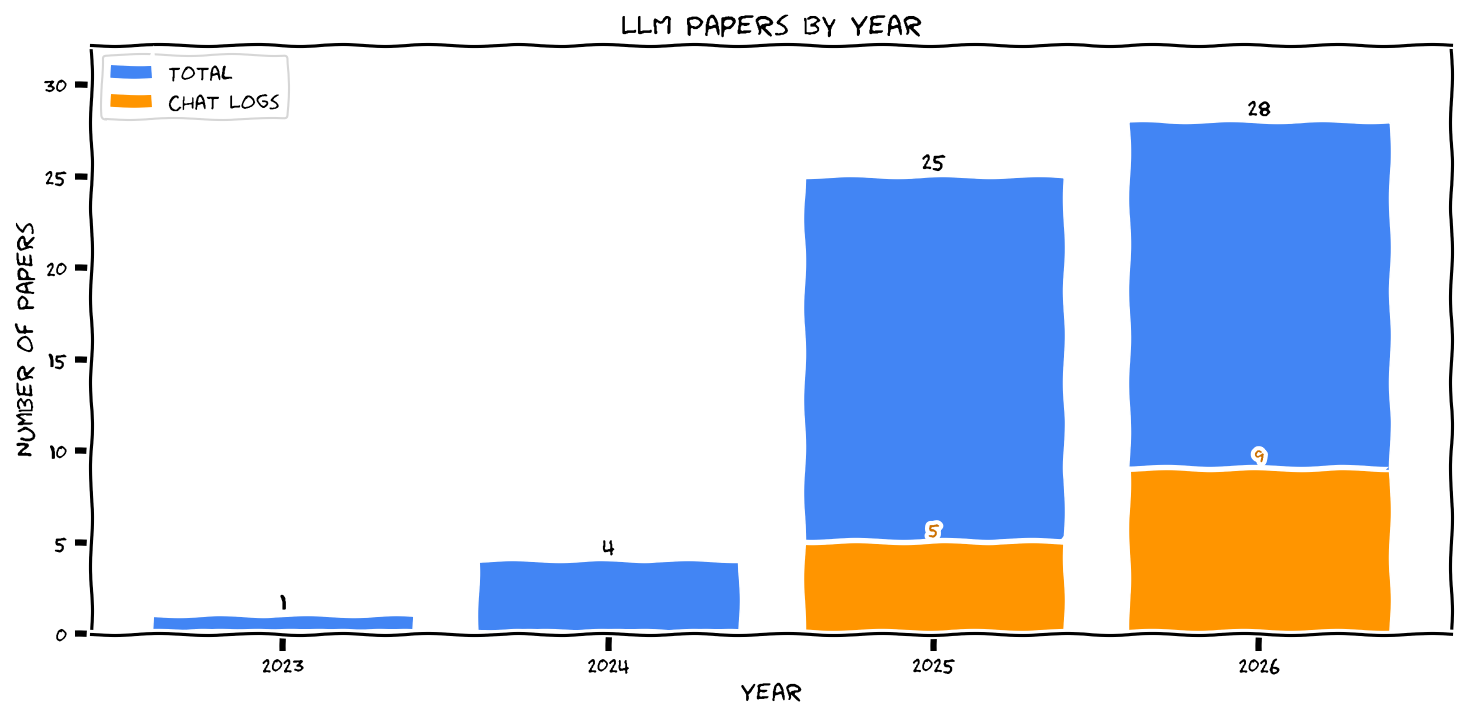
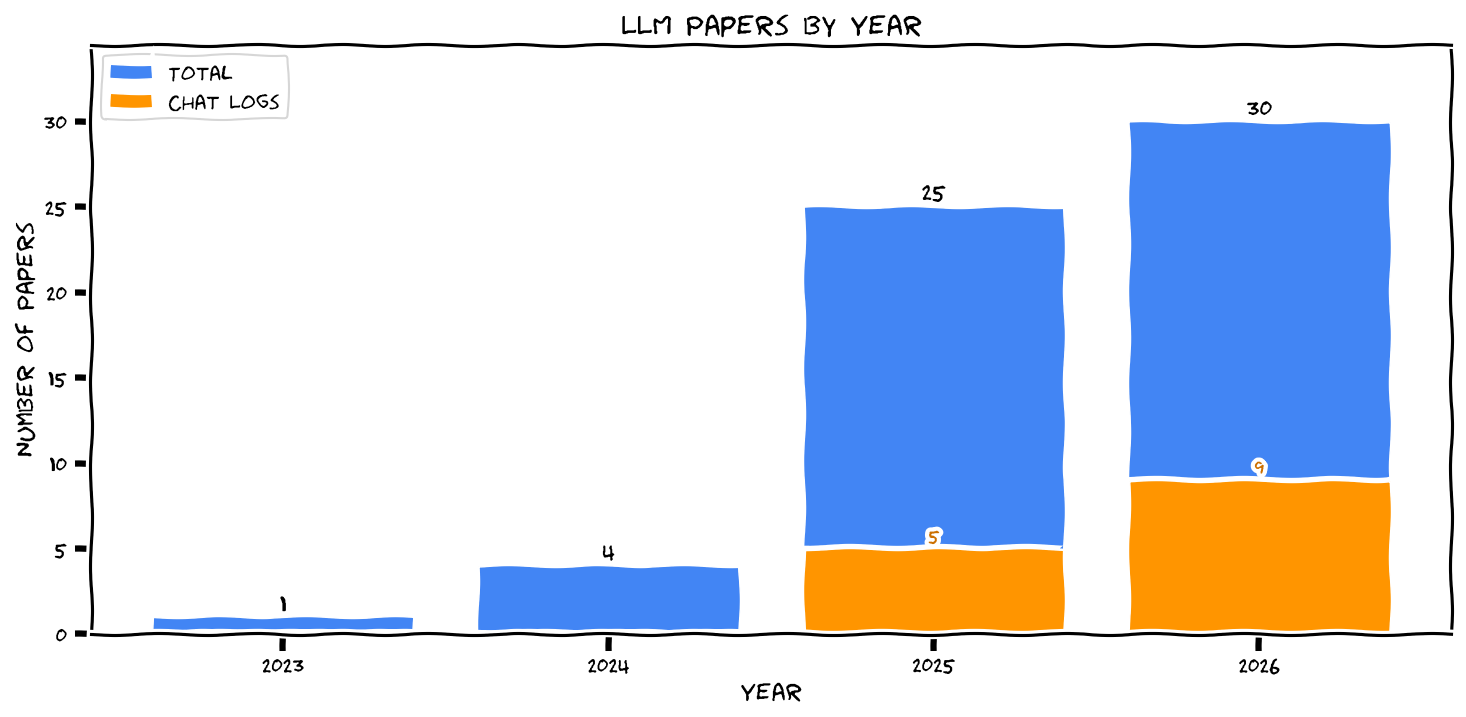
two combinatorics papers (#106)
* Added 2 combinatorics papers

* chore: auto-sort table and generate data

* chore: update papers by year charts

---------

diff --git a/README.md b/README.md
@@ -3,7 +3,7 @@
 [![Awesome](https://awesome.re/badge.svg)](https://awesome.re)
 
 
-A curated list of 145 awesome papers exploring the use of artificial intelligence / machine learning / deep learning for mathematical discoveries.
+A curated list of 147 awesome papers exploring the use of artificial intelligence / machine learning / deep learning for mathematical discoveries.
 
 See [`CONTRIBUTING.md`](https://github.com/seewoo5/awesome-ai-for-math/blob/main/CONTRIBUTING.md) for contribution.
 
@@ -47,6 +47,7 @@ See [`CONTRIBUTING.md`](https://github.com/seewoo5/awesome-ai-for-math/blob/main
 | **[Deep Learning for Symbolic Mathematics](https://openreview.net/forum?id=S1eZYeHFDS)** | Differential Equations, Symbolic Computation, Transformer | ICLR 2020 | [Code](https://github.com/facebookresearch/SymbolicMathematics) |
 | **[Deep Reinforcement Learning for Fano Hypersurfaces](https://arxiv.org/abs/2603.15437)** | Algebraic Geometry, RL | arXiv 2026 | [Code](https://github.com/marctruter/deep_fano_hypersurface) |
 | **[Discovery of Unstable Singularities](https://arxiv.org/abs/2509.14185)** | Differential Equations, PINN | arXiv 2025 |  |
+| **[Doubly Saturated Ramsey Graphs: A Case Study in Computer-Assisted Mathematical Discovery](https://arxiv.org/abs/2604.21187)** | Combinatorics, LLM, ATP | arXiv 2026 | |
 | **[E6-local systems from cubic threefolds](https://arxiv.org/abs/2604.20970)** | Algebraic Geometry, LLM | arXiv 2026 |  |
 | **[Early science acceleration experiments with GPT-5](https://arxiv.org/abs/2511.16072)** | Combinatorics, Optimization Theory, LLM | arXiv 2025 | [Chat Logs](https://arxiv.org/abs/2511.16072) |
 | **[Eigenweights for arithmetic Hirzebruch Proportionality](https://arxiv.org/abs/2601.23245)** | Number Theory, Representation Theory, LLM | arXiv 2026 | [Chat Logs](https://github.com/google-deepmind/superhuman/tree/main/aletheia) |
@@ -141,6 +142,7 @@ See [`CONTRIBUTING.md`](https://github.com/seewoo5/awesome-ai-for-math/blob/main
 | **[RealMath: A Continuous Benchmark for Evaluating Language Models on Research-Level Mathematics](https://arxiv.org/abs/2505.12575)** | Benchmark, LLM | NeurIPS 2025 |  |
 | **[Recursive-algebraic solution of the closed string tachyon vacuum equation](https://arxiv.org/abs/2603.29926)** | Mathematical Physics, LLM | arXiv 2026 | [Code](https://github.com/mk2427/csft-tachyon-vacuum) [Chat Logs](https://github.com/mk2427/csft-tachyon-vacuum) |
 | **[Reinforced Generation of Combinatorial Structures: Hardness of Approximation](https://arxiv.org/abs/2509.18057)** | Computational Complexity, Combinatorics, LLM | arXiv 2025 |  |
+| **[Reinforced Generation of Combinatorial Structures: Ramsey Numbers](https://arxiv.org/abs/2603.09172)** | Combinatorics, LLM | arXiv 2026 | |
 | **[Reinforcement Learning the Chromatic Symmetric Function](https://doi.org/10.4310/atmp.260413002529)** | Graph Theory, RL | Advances in Theoretical and Mathematical Physics 2026 | [Code](https://github.com/berczig/PositivityConjectures) [arXiv](https://arxiv.org/abs/2410.19189) |
 | **[Resolution of Erdős Problem #728: a writeup of Aristotle's Lean proof](https://arxiv.org/abs/2601.07421)** | Number Theory, LLM, ATP | arXiv 2026 |  |
 | **[Rigor with Machine Learning from Field Theory to the Poincaré Conjecture](https://www.nature.com/articles/s42254-024-00709-0)** | Geometry, Mathematical Physics | Nature Reviews Physics 2024 |  |
